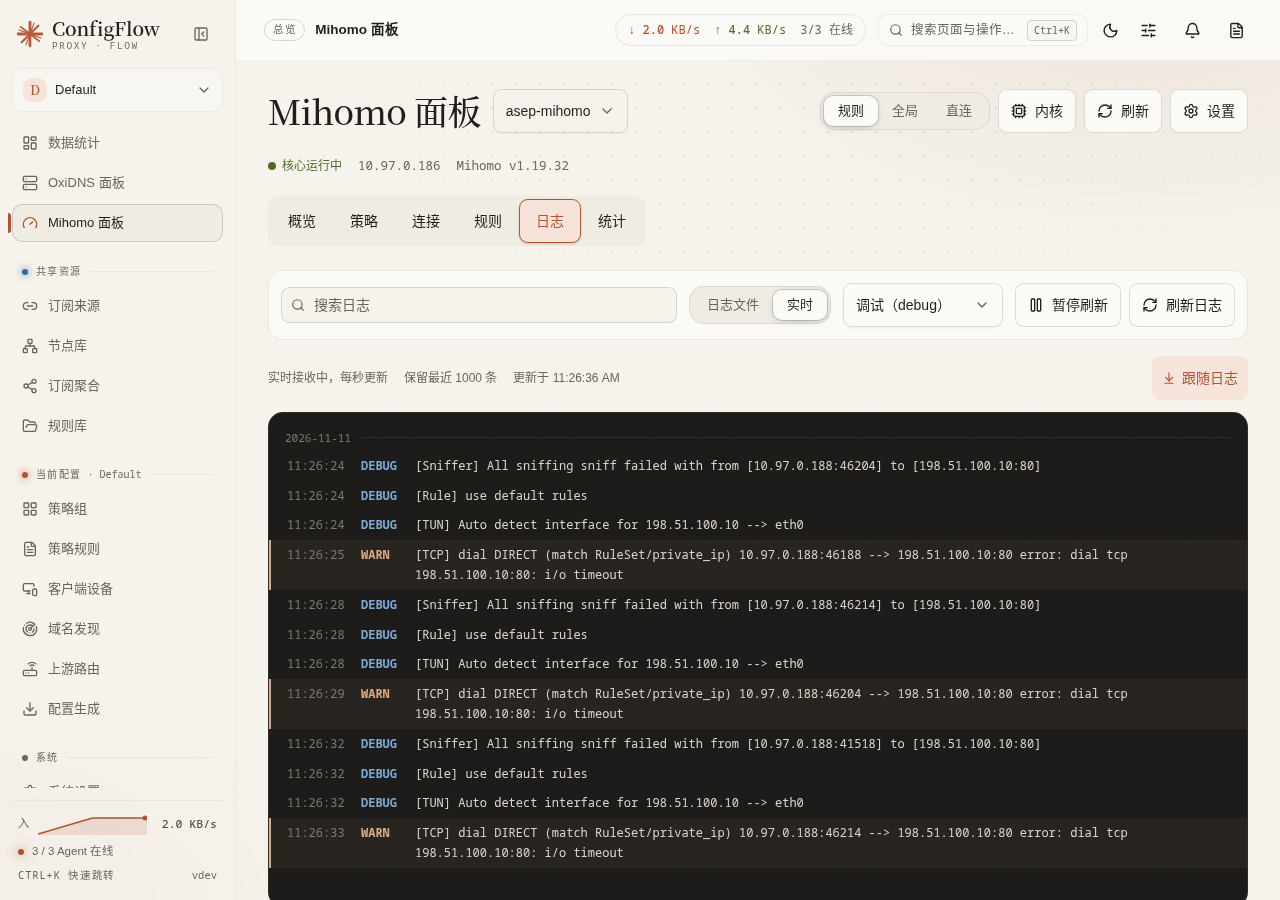
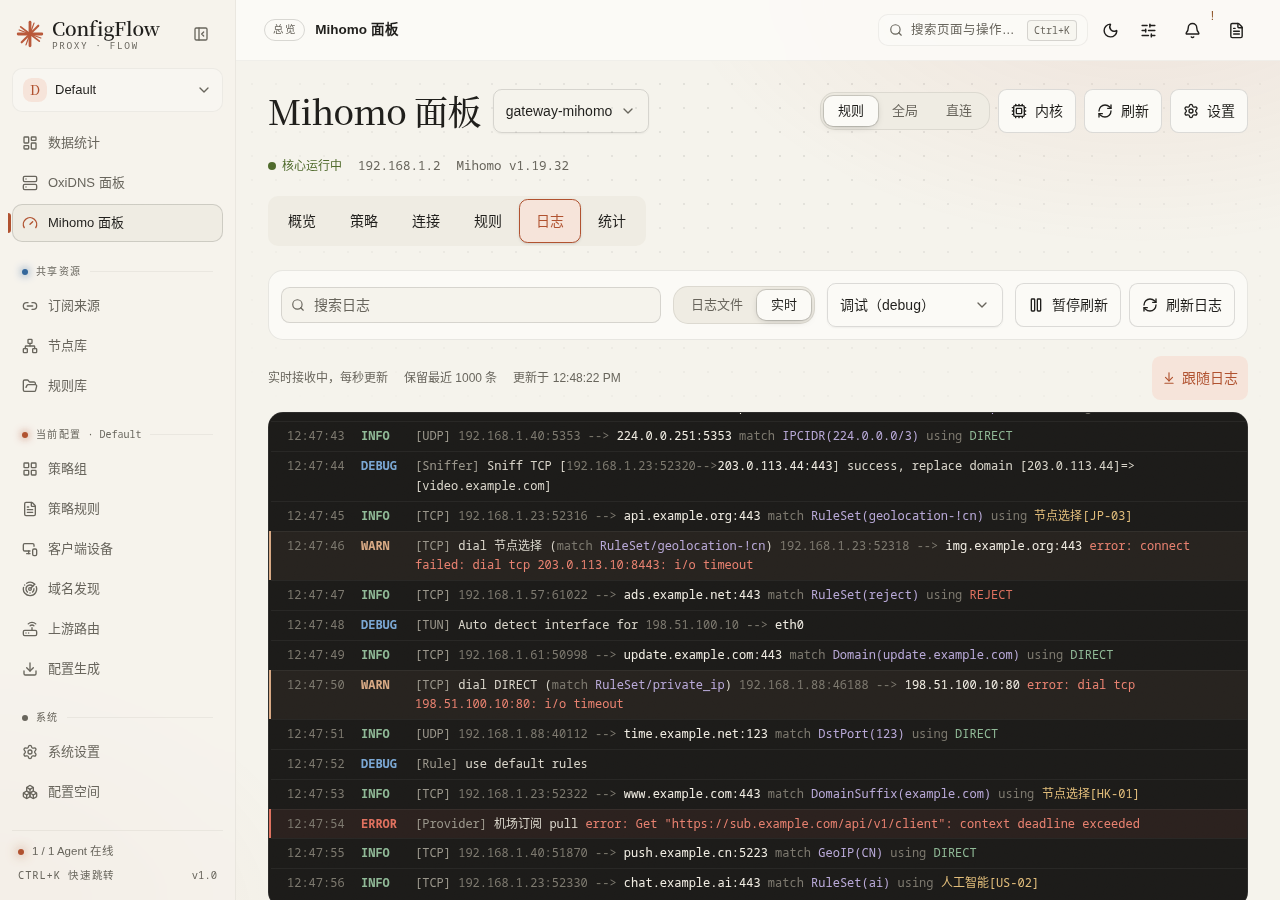
feat(logs): 日志正文按含义着色，条间加细分隔线，搜索词高亮
- 新增 tokenizeLogMessage：原文不改，识别 Mihomo 连接日志的来源、目标、
  规则（RuleSet(x) 与 RuleSet/x 两种写法）、策略（DIRECT / REJECT / 代理），
  以及 error: 之后的原因；认不出的格式只给开头标签、引号字符串和错误着色
- AgentLogLines 每条之间画细分隔线（续行不画），着色片段按条目缓存
- 搜索词在正文和字段值中标出，可跨着色片段命中
- 同步使用手册、截图与 DESIGN.md

diff --git a/frontend/tests/agent-log-lines.test.ts b/frontend/tests/agent-log-lines.test.ts
@@ -1,7 +1,7 @@
 import { describe, expect, it } from 'vitest'
 import { mount } from '@vue/test-utils'
 import AgentLogLines from '@/components/agents/AgentLogLines.vue'
-import { parseAgentLogLine, parseAgentLogs, splitFields } from '@/lib/agentLogs'
+import { markLogTokens, parseAgentLogLine, parseAgentLogs, splitFields, tokenizeLogMessage, type LogToken } from '@/lib/agentLogs'
 
 const OXIDNS_DOWNLOAD = '2026-10-20T23:22:20+08:00 T+341494.611 INFO oxidns::plugin::executor::download:184:download completed plugin=rules_download url=https://cf.example/api/profiles/default/mosdns/rule-proxy?url=https%3A%2F%2Fcf.example%2Fx&part=domain&token=[REDACTED] target=rules/rule_27b8_domain.txt timeout_ms=60000 socks5=""'
 const OXIDNS_WARN = '2026-10-20T23:48:57+08:00 T+343092.132 WARN oxidns::plugin::server::udp:232:Error receiving message on UDP socket: DNS protocol error: dns compression pointer exceeds packet length'
@@ -84,5 +84,74 @@ describe('AgentLogLines', () => {
     const notice = mount(AgentLogLines, { props: { text: AGENT, notice: '获取日志失败: 超时' } })
     expect(notice.text()).toBe('获取日志失败: 超时')
     expect(mount(AgentLogLines, { props: { text: '' } }).text()).toBe('该日志暂无内容')
+  })
+})
+
+const kinds = (tokens: LogToken[]) => tokens.filter(token => token.kind).map(token => [token.kind, token.text])
+
+describe('log message colouring', () => {
+  it('splits a Mihomo connection line by meaning without changing the text', () => {
+    const message = '[TCP] 192.168.1.23:52314 --> www.example.com:443 match DomainSuffix(example.com) using 节点选择[HK-01]'
+    const tokens = tokenizeLogMessage(message)
+    expect(tokens.map(token => token.text).join('')).toBe(message)
+    expect(kinds(tokens)).toEqual([
+      ['tag', '[TCP]'], ['src', '192.168.1.23:52314'], ['arrow', '-->'], ['dst', 'www.example.com:443'],
+      ['kw', 'match'], ['rule', 'DomainSuffix(example.com)'], ['kw', 'using'], ['proxy', '节点选择[HK-01]']
+    ])
+  })
+
+  it('tells direct and reject policies apart', () => {
+    expect(kinds(tokenizeLogMessage('[UDP] 192.168.1.40:5353 --> 224.0.0.251:5353 match IPCIDR(224.0.0.0/3) using DIRECT')).at(-1))
+      .toEqual(['direct', 'DIRECT'])
+    expect(kinds(tokenizeLogMessage('[TCP] 192.168.1.57:61022 --> ads.example.net:443 match RuleSet(reject) using REJECT-DROP')).at(-1))
+      .toEqual(['reject', 'REJECT-DROP'])
+  })
+
+  it('colours the reason after error: in dial failures', () => {
+    const message = '[TCP] dial Proxy (match RuleSet(google)) 192.168.0.5:51234 --> www.example.com:443 error: i/o timeout'
+    const tokens = tokenizeLogMessage(message)
+    expect(tokens.map(token => token.text).join('')).toBe(message)
+    expect(kinds(tokens)).toEqual([
+      ['tag', '[TCP]'], ['kw', 'match'], ['rule', 'RuleSet(google)'], ['src', '192.168.0.5:51234'], ['arrow', '-->'],
+      ['dst', 'www.example.com:443'], ['err', 'error: i/o timeout']
+    ])
+  })
+
+  it('reads the slash rule form and process names from real dial failures', () => {
+    const message = '[TCP] dial DIRECT (match RuleSet/private_ip) 10.0.0.8:46188(chrome) --> 198.51.100.10:80 error: dial tcp 198.51.100.10:80: i/o timeout'
+    const tokens = tokenizeLogMessage(message)
+    expect(tokens.map(token => token.text).join('')).toBe(message)
+    expect(kinds(tokens)).toEqual([
+      ['tag', '[TCP]'], ['kw', 'match'], ['rule', 'RuleSet/private_ip'], ['src', '10.0.0.8:46188(chrome)'], ['arrow', '-->'],
+      ['dst', '198.51.100.10:80'], ['err', 'error: dial tcp 198.51.100.10:80: i/o timeout']
+    ])
+  })
+
+  it('stops addresses at brackets and leaves prose alone', () => {
+    expect(kinds(tokenizeLogMessage('[Sniffer] Sniff TCP [192.168.1.23:52320-->203.0.113.44:443] success'))).toEqual([
+      ['tag', '[Sniffer]'], ['src', '192.168.1.23:52320'], ['arrow', '-->'], ['dst', '203.0.113.44:443']
+    ])
+    expect(kinds(tokenizeLogMessage('Get "https://sub.example.com/x": context deadline exceeded'))).toEqual([
+      ['str', '"https://sub.example.com/x"']
+    ])
+    expect(kinds(tokenizeLogMessage('reload done using cached config, no match found'))).toEqual([])
+  })
+
+  it('marks search hits across token boundaries, ignoring case', () => {
+    const tokens = markLogTokens(tokenizeLogMessage('[TCP] 192.168.1.23:1 --> WWW.example.com:443 match Domain(x) using DIRECT'), '--> www')
+    expect(tokens.filter(token => token.hit).map(token => [token.kind, token.text])).toEqual([
+      ['arrow', '-->'], ['', ' '], ['dst', 'WWW']
+    ])
+    expect(markLogTokens([{ text: 'abc', kind: '' }], '  ')).toEqual([{ text: 'abc', kind: '' }])
+  })
+
+  it('renders coloured tokens and search marks', () => {
+    const wrapper = mount(AgentLogLines, {
+      props: { text: 'time="2026-10-21T00:01:02+08:00" level=info msg="[TCP] 192.168.0.5:1 --> www.example.com:443 match Match using DIRECT"', highlight: 'example' }
+    })
+    expect(wrapper.find('.tk-dst').text()).toBe('www.')
+    expect(wrapper.find('mark.tk-dst').text()).toBe('example')
+    expect(wrapper.find('.tk-direct').text()).toBe('DIRECT')
+    expect(wrapper.find('.log-message').text()).toBe('[TCP] 192.168.0.5:1 --> www.example.com:443 match Match using DIRECT')
   })
 })

diff --git a/frontend/src/lib/agentLogs.ts b/frontend/src/lib/agentLogs.ts
@@ -172,3 +172,134 @@ export const mihomoLiveEntry = (log: MihomoLiveLog): AgentLogEntry => {
     source: '', sourceShort: '', message: log.payload, fields: [], continuation: false
   }
 }
+
+/**
+ * 日志正文按含义着色时的片段类别；空字符串为普通文字。
+ * tag 开头的 [TCP] 等标签，src / dst 箭头两侧的来源与目标，kw 为 match / using，
+ * rule 命中的规则，direct / reject / proxy 为所走策略，str 为引号字符串，err 为 error: 之后的原因。
+ */
+export type LogTokenKind = '' | 'tag' | 'src' | 'arrow' | 'dst' | 'kw' | 'rule' | 'direct' | 'reject' | 'proxy' | 'str' | 'err'
+
+export interface LogToken {
+  text: string
+  kind: LogTokenKind
+  /** 命中搜索词 */
+  hit?: boolean
+}
+
+const LEADING_TAG = /^\[[A-Za-z][\w-]*\]/
+// Mihomo 的错误原因都写在 error: 之后，例如 dial … error: i/o timeout
+const ERROR_AT = /\berror:/
+// 箭头、match 规则、using 策略（只在 match 之后）、引号字符串。
+// 规则写法有 RuleSet(google)（连接日志）和 RuleSet/google（拨号失败）两种
+const MESSAGE_TOKEN = /-->|\bmatch ([A-Z][\w-]*(?:\([^)]*\)|\/[^\s)]+)?)|\busing (\S(?:.*\S)?)|"[^"\n]*"/g
+// 来源可能带进程名：192.168.1.5:51234(chrome)
+const ADDRESS_BEFORE = /([^\s()/[\]]+(?:\([^)]*\))?)(\s*)$/
+const ADDRESS_AFTER = /^(\s*)([^\s()[\]]+)/
+
+const policyKind = (policy: string): LogTokenKind =>
+  policy === 'DIRECT' ? 'direct' : /^REJECT\b/.test(policy) ? 'reject' : 'proxy'
+
+/**
+ * 把一条日志正文切成着色片段，原文一个字不改，拼起来与输入相同。
+ * 主要识别 Mihomo 的连接日志（[TCP] 来源 --> 目标 match 规则 using 策略）；
+ * 其他格式只给开头标签、引号字符串和 error: 之后的原因着色。
+ */
+export function tokenizeLogMessage(message: string): LogToken[] {
+  const tokens: LogToken[] = []
+  const push = (text: string, kind: LogTokenKind = '') => {
+    if (!text) return
+    const last = tokens[tokens.length - 1]
+    if (last && last.kind === kind) last.text += text
+    else tokens.push({ text, kind })
+  }
+  let rest = message
+  const tag = LEADING_TAG.exec(rest)
+  if (tag) {
+    push(tag[0], 'tag')
+    rest = rest.slice(tag[0].length)
+  }
+  const errorAt = rest.search(ERROR_AT)
+  const head = errorAt < 0 ? rest : rest.slice(0, errorAt)
+  let index = 0
+  let wantTarget = false
+  let matched = false
+  // 箭头后的第一个地址是目标
+  const plain = (text: string) => {
+    if (wantTarget) {
+      wantTarget = false
+      const target = ADDRESS_AFTER.exec(text)
+      if (target) {
+        push(target[1])
+        push(target[2], 'dst')
+        text = text.slice(target[0].length)
+      }
+    }
+    return text
+  }
+  for (const match of head.matchAll(MESSAGE_TOKEN)) {
+    const at = match.index ?? 0
+    const before = plain(head.slice(index, at))
+    index = at + match[0].length
+    if (match[0] === '-->') {
+      const source = ADDRESS_BEFORE.exec(before)
+      if (source) {
+        push(before.slice(0, source.index))
+        push(source[1], 'src')
+        push(source[2])
+      } else {
+        push(before)
+      }
+      push('-->', 'arrow')
+      wantTarget = true
+    } else if (match[1] !== undefined) {
+      push(before)
+      push('match', 'kw')
+      push(' ')
+      push(match[1], 'rule')
+      matched = true
+    } else if (match[2] !== undefined && matched) {
+      push(before)
+      push('using', 'kw')
+      push(' ')
+      push(match[2], policyKind(match[2]))
+    } else if (match[2] !== undefined) {
+      push(before + match[0])
+    } else {
+      push(before)
+      push(match[0], 'str')
+    }
+  }
+  push(plain(head.slice(index)))
+  if (errorAt >= 0) push(rest.slice(errorAt), 'err')
+  return tokens
+}
+
+/** 按搜索词（忽略大小写的普通文本）把片段再切开并标出命中部分，可跨片段命中 */
+export function markLogTokens(tokens: LogToken[], keyword: string): LogToken[] {
+  const needle = keyword.trim().toLowerCase()
+  if (!needle) return tokens
+  const text = tokens.map(token => token.text).join('').toLowerCase()
+  const ranges: Array<[number, number]> = []
+  for (let at = text.indexOf(needle); at >= 0; at = text.indexOf(needle, at + needle.length)) {
+    ranges.push([at, at + needle.length])
+  }
+  if (!ranges.length) return tokens
+  const result: LogToken[] = []
+  let offset = 0
+  let range = 0
+  for (const token of tokens) {
+    const end = offset + token.text.length
+    let cursor = offset
+    while (cursor < end) {
+      while (range < ranges.length && ranges[range][1] <= cursor) range++
+      const current = ranges[range]
+      const hit = !!current && current[0] <= cursor
+      const stop = Math.min(end, current ? (hit ? current[1] : current[0]) : end)
+      result.push({ text: token.text.slice(cursor - offset, stop - offset), kind: token.kind, hit })
+      cursor = stop
+    }
+    offset = end
+  }
+  return result
+}

diff --git a/frontend/src/components/agents/AgentLogLines.vue b/frontend/src/components/agents/AgentLogLines.vue
@@ -11,10 +11,10 @@
           <span v-if="hasLevels" :class="cn('log-level', entry.level && `lv-${entry.level}`)">{{ entry.level }}</span>
           <div class="log-body">
             <span v-if="entry.sourceShort" class="log-source" :title="entry.source">{{ entry.sourceShort }}</span>
-            <span v-if="entry.message" class="log-message">{{ entry.message }}</span>
+            <span v-if="entry.message" class="log-message"><template v-for="(token, tokenIndex) in messageTokens(entry)" :key="tokenIndex"><mark v-if="token.hit" :class="token.kind && `tk-${token.kind}`">{{ token.text }}</mark><span v-else-if="token.kind" :class="`tk-${token.kind}`">{{ token.text }}</span><template v-else>{{ token.text }}</template></template></span>
             <span v-if="entry.fields.length" class="log-fields">
               <span v-for="(field, fieldIndex) in entry.fields" :key="fieldIndex" class="log-field">
-                <span class="log-key">{{ field.key }}=</span><span class="log-value">{{ field.value || '""' }}</span>
+                <span class="log-key">{{ field.key }}=</span><span class="log-value"><template v-for="(token, tokenIndex) in marked(field.value || EMPTY_VALUE)" :key="tokenIndex"><mark v-if="token.hit">{{ token.text }}</mark><template v-else>{{ token.text }}</template></template></span>
               </span>
             </span>
           </div>
@@ -26,7 +26,10 @@
 
 <script setup lang="ts">
 import { computed, ref } from 'vue'
-import { filterLogLevel, parseAgentLogs, type AgentLogEntry, type AgentLogLevel } from '@/lib/agentLogs'
+import {
+  filterLogLevel, markLogTokens, parseAgentLogs, tokenizeLogMessage,
+  type AgentLogEntry, type AgentLogLevel, type LogToken
+} from '@/lib/agentLogs'
 import { cn } from '@/lib/utils'
 
 const props = withDefaults(defineProps<{
@@ -40,18 +43,35 @@ const props = withDefaults(defineProps<{
   /** 没有可显示的条目时的提示 */
   emptyText?: string
   heightClass?: string
+  /** 搜索词：在正文与字段值中标出命中的文字 */
+  highlight?: string
 }>(), {
   text: '',
   items: undefined,
   minLevel: '',
   notice: '',
   emptyText: '该日志暂无内容',
-  heightClass: 'max-h-[56dvh]'
+  heightClass: 'max-h-[56dvh]',
+  highlight: ''
 })
 
 const scroller = ref<HTMLElement | null>(null)
 const entries = computed(() => filterLogLevel(props.items ?? parseAgentLogs(props.text), props.minLevel))
 const hasLevels = computed(() => entries.value.some(entry => entry.level))
+
+const EMPTY_VALUE = '""'
+// 着色片段按条目缓存：实时日志每秒追加，旧条目不必重新切分
+const tokenCache = new WeakMap<AgentLogEntry, LogToken[]>()
+const tokensOf = (entry: AgentLogEntry) => {
+  let tokens = tokenCache.get(entry)
+  if (!tokens) {
+    tokens = tokenizeLogMessage(entry.message)
+    tokenCache.set(entry, tokens)
+  }
+  return tokens
+}
+const messageTokens = (entry: AgentLogEntry) => markLogTokens(tokensOf(entry), props.highlight)
+const marked = (text: string) => markLogTokens([{ text, kind: '' }], props.highlight)
 
 /** 日期变化时插入分隔行；续行与无时间的行不打断 */
 const dateChanged = (index: number) => {
@@ -116,6 +136,11 @@ defineExpose({ scrollToBottom })
   background: rgb(255 255 255 / 3%);
 }
 
+/* 条与条之间的细分隔线；续行属于上一条，不画线 */
+.log-row + .log-row:not(.is-continuation) {
+  box-shadow: inset 0 1px 0 rgb(255 255 255 / 5.5%);
+}
+
 .log-row.is-continuation {
   padding-top: 0;
 }
@@ -161,6 +186,57 @@ defineExpose({ scrollToBottom })
 
 .log-value {
   color: #c4c0b4;
+}
+
+/* 正文按含义着色：目标最亮，来源与连接词压暗，规则淡紫，策略按直连 / 拦截 / 代理区分，错误原因红色 */
+.tk-tag {
+  color: #9a968b;
+}
+
+.tk-src,
+.tk-kw,
+.tk-arrow {
+  color: #7c786e;
+}
+
+.tk-dst {
+  color: #f1ede3;
+}
+
+.tk-rule {
+  color: #b9a9d9;
+}
+
+.tk-proxy {
+  color: #e2bd7a;
+}
+
+.tk-direct {
+  color: #8fb996;
+}
+
+.tk-reject {
+  color: #e0705e;
+}
+
+.tk-str {
+  color: #94c3bd;
+}
+
+.tk-err {
+  color: #e8806f;
+}
+
+/* 搜索命中 */
+mark {
+  border-radius: 2px;
+  background: rgb(226 189 122 / 28%);
+  box-shadow: 0 0 0 1px rgb(226 189 122 / 35%);
+  color: inherit;
+}
+
+mark:not([class]) {
+  color: #f1ede3;
 }
 
 /* 桌面：时间、级别固定列宽，正文换行后与首行对齐 */

diff --git a/frontend/src/components/mihomo/MihomoLogs.vue b/frontend/src/components/mihomo/MihomoLogs.vue
@@ -48,14 +48,14 @@
         <Button variant="outline" class="min-h-11" as-child><RouterLink to="/agents">前往升级 Agent</RouterLink></Button>
       </EmptyState>
     </SectionCard>
-    <AgentLogLines v-else-if="mode === 'live'" ref="logPane" :items="liveMatches" :notice="liveNotice" height-class="h-[55dvh] min-h-60 max-h-[640px]" />
+    <AgentLogLines v-else-if="mode === 'live'" ref="logPane" :items="liveMatches" :highlight="keyword" :notice="liveNotice" height-class="h-[55dvh] min-h-60 max-h-[640px]" />
     <SectionCard v-else-if="legacy || unavailable || (sourcesReady && !sources.length)">
       <EmptyState :icon="FileText" :title="legacy ? '需要升级 Agent' : '暂无可读取的 Mihomo 日志'" :description="unavailableMessage">
         <Button v-if="legacy" variant="outline" class="min-h-11" as-child><RouterLink to="/agents">前往升级 Agent</RouterLink></Button>
         <Button v-else variant="outline" class="min-h-11" :disabled="loading" @click="refresh">重新读取来源</Button>
       </EmptyState>
     </SectionCard>
-    <AgentLogLines v-else ref="logPane" :text="filteredText" :min-level="agentLevelOf(level)" :notice="notice"
+    <AgentLogLines v-else ref="logPane" :text="filteredText" :highlight="keyword" :min-level="agentLevelOf(level)" :notice="notice"
       empty-text="没有该等级及以上的日志" height-class="h-[55dvh] min-h-60 max-h-[640px]" />
   </div>
 </template>

diff --git a/doc/manual/mihomo-panel.md b/doc/manual/mihomo-panel.md
@@ -218,13 +218,15 @@
 - **日志文件**（默认）：读取 Mihomo 写下的核心日志（自动使用第一个可读来源）、每 3 秒刷新，最多显示最近 500 行。文件里只有配置 `log-level` 及以上的日志。
 - **实时**（需要 Agent 1.8.56-go 及以上）：Agent 直接订阅内核的日志推送，每秒更新，浏览器保留最近 1000 条。推送不受 `log-level` 限制，不改配置、不重启就能临时看 debug 日志。只显示打开后产生的日志，没有历史。离开日志标签或隐藏页面就停止读取，Agent 在 15 秒内没人查看时断开订阅。
 
-![实时模式选 debug：每秒接收 Mihomo 推送的日志，按等级着色](../img/guide/mihomo-logs-live.png)
+![实时模式选 debug：每秒接收 Mihomo 推送的日志，按含义着色](../img/guide/mihomo-logs-live.png)
+
+两种看法的显示方式相同：一条日志占一行，条与条之间有细分隔线，原文不改动，只按含义着色。连接日志里访问的目标最亮，命中的规则为淡紫色；所走策略中 `DIRECT` 为绿色，`REJECT` 类为红色，其余代理策略为琥珀色。来源地址、`match`、`using` 和箭头颜色较暗；`error:` 之后的错误原因为红色。警告和错误整行加色条。
 
 | 控件 | 开启/关闭或点击的效果 |
 | --- | --- |
 | 日志文件 / 实时 | 切换上面两种看法；切换后重新读取。 |
 | 日志等级 | 只显示所选等级及以上的日志。默认跟随运行中内核的 `log-level`（选项旁标“配置”）；配置为 `silent` 时按 info。日志文件下选得比配置更详细时，页面提示改用实时。实时下改等级会清空列表并按新等级重新接收。 |
-| 搜索日志 | 默认空，按普通文本忽略大小写过滤当前读取的行，不会搜索整个历史日志文件。 |
+| 搜索日志 | 默认空，按普通文本忽略大小写过滤当前读取的行，并在日志里标出命中的文字；不会搜索整个历史日志文件。 |
 | 暂停刷新 / 恢复刷新 | 暂停/恢复页面轮询，核心仍继续写日志；页面隐藏或不在日志标签时也暂停读取。 |
 | 刷新日志 | 立即重新读取，即使自动刷新暂停也可以手动读取。 |
 | 跟随日志 | 默认开启，读到新内容时滚到末尾；关闭后方便读上面的行，不停止采样。 |
